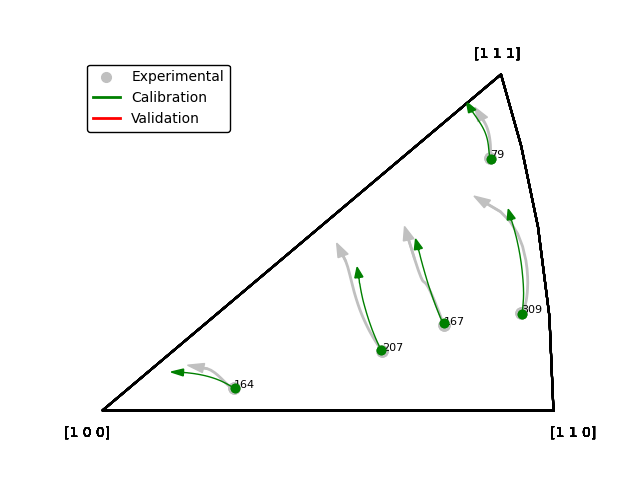
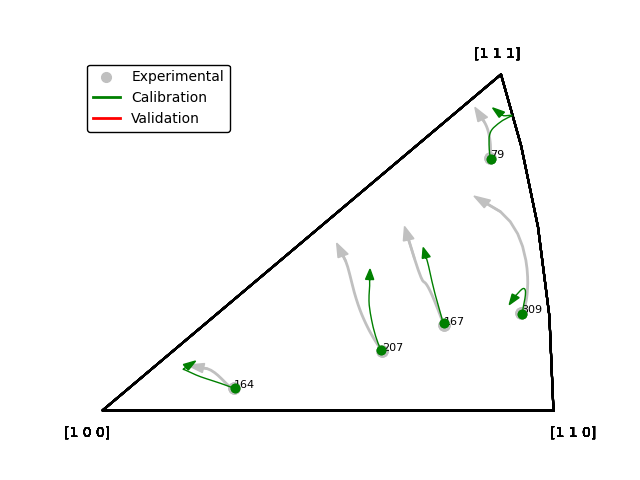
reworked analysis scripts

diff --git a/4. TORCH/comp_sm.py b/4. TORCH/comp_sm.py
@@ -22,10 +22,29 @@ MMS_PATH = "/mnt/c/Users/janzen/OneDrive - UNSW/PhD/results/mms"
 
 # Variable Paths
 SM_PATHS = [f"{MMS_PATH}/{sm_path}" for sm_path in [
-    "2024-11-06 (617_s3_40um_lh2)",
+    "2024-11-10 (617_s3_40um_lh2_s8)",
+    "2024-11-11 (617_s3_40um_lh2_s16)",
+    "2024-11-13 (617_s3_40um_lh2_s24)",
+    "2024-11-10 (617_s3_40um_lh2_s32)",
+    "2024-11-17 (617_s3_40um_lh2_s40)",
 ]]
 OPT_PATHS = [f"{OPT_PATH}/{opt_path}" for opt_path in [
-    "2024-11-05 (617_s3_40um_lh2_opt)",
+    "2024-11-18 (617_s3_40um_lh2_opts)/241117131336_0_01",
+    "2024-11-18 (617_s3_40um_lh2_opts)/241117131336_1_01",
+    "2024-11-18 (617_s3_40um_lh2_opts)/241117131336_2_01",
+    "2024-11-18 (617_s3_40um_lh2_opts)/241117131336_3_01",
+    "2024-11-18 (617_s3_40um_lh2_opts)/241117164019_3_02",
+    "2024-11-18 (617_s3_40um_lh2_opts)/241117164844_0_02",
+    "2024-11-18 (617_s3_40um_lh2_opts)/241117172822_2_02",
+    "2024-11-18 (617_s3_40um_lh2_opts)/241117190038_1_02",
+    "2024-11-18 (617_s3_40um_lh2_opts)/241117192418_0_03",
+    "2024-11-18 (617_s3_40um_lh2_opts)/241117225529_2_03",
+    "2024-11-18 (617_s3_40um_lh2_opts)/241118010357_0_04",
+    "2024-11-18 (617_s3_40um_lh2_opts)/241118021205_2_04",
+    "2024-11-18 (617_s3_40um_lh2_opts)/241118031436_1_03",
+    "2024-11-18 (617_s3_40um_lh2_opts)/241118055907_3_03",
+    "2024-11-18 (617_s3_40um_lh2_opts)/241118071817_1_04",
+    "2024-11-18 (617_s3_40um_lh2_opts)/241118100124_3_04",
 ]]
 
 # Model Evaluation Parameters
@@ -36,14 +55,16 @@ CAL_GRAIN_IDS = [207, 79, 164, 167, 309]
 
 # Plotting Parameters
 X_LABEL       = "Training Size"
+# LABEL_LIST    = [int(sm_path.split("/")[-1].split("s")[-1].replace(")","")) for sm_path in SM_PATHS]
 LABEL_LIST    = [8, 16, 24, 32, 40, 48]
 
 # Main function
 def main():
 
     # Initialise errors
-    sm_ori_error_list = []
-    sm_stress_error_list = []
+    ori_error_grid = []
+    stress_error_grid = []
+    total_error_grid = []
 
     # Iterate through surrogate models
     for sm_path in SM_PATHS:
@@ -59,15 +80,15 @@ def main():
             exp_path   = EXP_PATH,
             max_strain = MAX_STRAIN,
         )
-        res_dict = model.get_response(param_values)
 
         # Iterate through optimised results
         for opt_path in OPT_PATHS:
 
-            # Initialise
+            # Get data
             opt_dict = csv_to_dict(f"{opt_path}/summary.csv")
             param_dict = read_params(f"{opt_path}/params.txt")
             param_values = [param_dict[param_name] for param_name in PARAM_NAMES]
+            res_dict = model.get_response(param_values)
 
             # Calculate stress error
             stress_error = get_stress(
@@ -75,7 +96,7 @@ def main():
                 stress_list_2 = res_dict["stress"],
                 strain_list_1 = opt_dict["average_strain"],
                 strain_list_2 = res_dict["strain"],
-                eval_strains  = EVAL_STRAINS
+                eval_strains  = EVAL_STRAINS,
             )
 
             # Calculate orientation error
@@ -87,37 +108,89 @@ def main():
                 strain_list_2 = opt_dict["average_strain"],
                 eval_strains  = EVAL_STRAINS
             )
-            average_geodesic = np.average(flatten(geodesic_grid))
+            average_geodesics = [np.sqrt(np.average([g**2 for g in gg])) for gg in geodesic_grid]
+            average_geodesic = np.average(average_geodesics)
 
             # Add errors
-            ori_error_list.append(average_geodesic)
             stress_error_list.append(stress_error)
+            ori_error_list.append(average_geodesic)
 
         # Update errors
-        sm_ori_error_list.append(np.average(ori_error_list))
-        sm_stress_error_list.append(np.average(stress_error_list))
+        stress_error_grid.append(stress_error_list)
+        ori_error_grid.append(ori_error_list)
+        total_error_grid.append([se+oe/np.pi for se, oe in zip(stress_error_list, ori_error_list)])
+
+    # Adjust errors
+    for _ in range(len(LABEL_LIST)-len(SM_PATHS)):
+        stress_error_grid.append([])
+        ori_error_grid.append([])
+        total_error_grid.append([])
 
     # Plot stress errors
-    plt.figure(figsize=(5, 5))
-    plt.grid(True)
-    plt.plot(LABEL_LIST, sm_stress_error_list, marker="o")
-    plt.xlabel(X_LABEL)
-    plt.ylabel("Stress Relative Error (%)")
-    # plt.xlim(0, 50)
-    # plt.ylim(0, 6)
+    plot_boxplots(LABEL_LIST, stress_error_grid, (0.6, 0.8, 1.0))
+    plt.xlabel(X_LABEL, fontsize=24, labelpad=16)
+    plt.ylabel(r"$E_{\sigma}$", fontsize=24, labelpad=16)
+    plt.xlim(4, 52)
+    plt.ylim(0, 0.18)
     save_plot("results/plot_comp_se.png")
 
     # Plot geodesic errors
-    plt.figure(figsize=(5, 5))
-    plt.grid(True)
-    plt.plot(LABEL_LIST, sm_ori_error_list, marker="o")
-    plt.xlabel(X_LABEL)
-    plt.ylabel("Geodesic Error (rads)")
-    # plt.xlim(0, 50)
-    # plt.ylim(0, 0.0010)
-    # plt.gca().ticklabel_format(axis="y", style="sci", scilimits=(-4,-4))
-    # plt.gca().yaxis.major.formatter._useMathText = True
+    plot_boxplots(LABEL_LIST, ori_error_grid, (1.0, 0.6, 0.0))
+    plt.xlabel(X_LABEL, fontsize=24, labelpad=16)
+    plt.ylabel(r"$\Sigma E_{\Phi}$", fontsize=24, labelpad=16)
+    plt.xlim(4, 52)
+    plt.ylim(0, 0.018)
+    plt.gca().ticklabel_format(axis="y", style="sci", scilimits=(-3,-3))
+    plt.gca().yaxis.major.formatter._useMathText = True
+    plt.gca().yaxis.get_offset_text().set_fontsize(18)
     save_plot("results/plot_comp_ge.png")
+
+    # Plot total errors
+    plot_boxplots(LABEL_LIST, total_error_grid, (0.8, 0.6, 0.8))
+    plt.xlabel(X_LABEL, fontsize=24, labelpad=16)
+    plt.ylabel(r"$E_{\Sigma}$", fontsize=24, labelpad=16)
+    plt.xlim(4, 52)
+    plt.ylim(0, 0.18)
+    save_plot("results/plot_comp_te.png")
+
+def plot_boxplots(x_list:list, y_list_list:list, colour:str) -> None:
+    """
+    Plots several boxplots together
+
+    Parameters:
+    * `x_list`:      List of x labels
+    * `y_list_list`: List of data lists
+    * `colour`:      Boxplot colour
+    """
+
+    # Format plot
+    plt.figure(figsize=(8, 8))
+    plt.gca().set_position([0.17, 0.12, 0.75, 0.75])
+    plt.gca().grid(which="major", axis="both", color="SlateGray", linewidth=2, linestyle=":")
+    plt.xticks(fontsize=18)
+    plt.yticks(fontsize=18)
+    plt.gca().xaxis.set_tick_params(width=2)
+    plt.gca().yaxis.set_tick_params(width=2)
+    for spine in plt.gca().spines.values():
+        spine.set_linewidth(2)
+
+    # Plot boxplots
+    boxplots = plt.boxplot(y_list_list, positions=x_list, showfliers=False, patch_artist=True,
+                           vert=True, widths=4, whiskerprops=dict(linewidth=2), capprops=dict(linewidth=2))
+    
+    # Apply additional formatting to the boxplots
+    for i in range(len(y_list_list)):
+        patch = boxplots["boxes"][i]
+        patch.set_facecolor(colour)
+        patch.set_edgecolor("black")
+        patch.set_linewidth(2)
+        median = boxplots["medians"][i]
+        median.set(color="black", linewidth=2)
+
+    # # Add scattered data
+    # for x, y_list in zip(x_list, y_list_list):
+    #     x_list = np.random.normal(x, 0.04, size=len(y_list))
+    #     plt.scatter(x_list, y_list, s=4**2, color=colour, edgecolors="black", zorder=3)
 
 def read_params(params_path:str) -> dict:
     """

diff --git a/4. TORCH/err_opt.py b/4. TORCH/err_opt.py
@@ -9,7 +9,7 @@
 import numpy as np
 import matplotlib.pyplot as plt
 import sys; sys.path += [".."]
-from __common__.general import flatten
+from __common__.general import flatten, round_sf
 from __common__.io import csv_to_dict
 from __common__.plotter import save_plot
 from __common__.analyse import get_geodesics, get_stress
@@ -18,14 +18,10 @@ from __common__.analyse import get_geodesics, get_stress
 EXP_PATH = "data/617_s3_exp.csv"
 SIMS_PATH = "/mnt/c/Users/janzen/OneDrive - UNSW/PhD/results/moose_sim"
 SIM_PATHS = [f"{SIMS_PATH}/{sim_dir}/summary.csv" for sim_dir in [
-    "2024-11-05 (617_s3_40um_lh2_opt)", # 0
-    "2024-11-06 (617_s3_40um_lh2_opt)", # 0
-    "2024-11-07 (617_s3_40um_lh2_opt)", # 1
-    "2024-11-08 (617_s3_40um_lh2_opt)", # 2
-    "2024-11-08 (617_s3_40um_lh2_opt_b)", # 2
-    "2024-11-09 (617_s3_40um_lh2_opt)",
+    "2024-11-05 (617_s3_40um_lh2_opt)",
+    "2024-11-28 (617_s3_40um_lh2_i1)",
+    "2024-11-30 (617_s3_40um_lh2_i2)",
 ]]
-EVAL_STRAINS = [0, 0.05, 0.10, 0.15, 0.20, 0.25]
 CAL_GRAIN_IDS = [207, 79, 164, 167, 309]
 
 # Main function
@@ -33,6 +29,7 @@ def main():
 
     # Initialise
     exp_dict = csv_to_dict(EXP_PATH)
+    eval_strains = np.linspace(0, exp_dict["strain_intervals"][-1], 32)
     ori_error_list = []
     stress_error_list   = []
 
@@ -46,7 +43,7 @@ def main():
             stress_list_2 = res_dict["average_stress"],
             strain_list_1 = exp_dict["strain"],
             strain_list_2 = res_dict["average_strain"],
-            eval_strains  = EVAL_STRAINS
+            eval_strains  = eval_strains
         )
 
         # Calculate orientation error
@@ -56,14 +53,14 @@ def main():
             data_dict_2   = exp_dict,
             strain_list_1 = res_dict["average_strain"],
             strain_list_2 = exp_dict["strain_intervals"],
-            eval_strains  = EVAL_STRAINS
+            eval_strains  = eval_strains
         )
         average_geodesic = np.average(flatten(geodesic_grid))
 
         # Add errors
         ori_error_list.append(average_geodesic)
         stress_error_list.append(stress_error)
-        print(average_geodesic, stress_error)
+        print(f"{round_sf(average_geodesic, 5)}\t{round_sf(stress_error, 5)}\t{round_sf(average_geodesic+stress_error*np.pi, 5)}")
 
     # # Plot geodesic errors
     # plt.figure(figsize=(5, 5))

diff --git a/4. TORCH/err_sm.py b/4. TORCH/err_sm.py
@@ -10,7 +10,7 @@ import numpy as np
 import matplotlib.pyplot as plt
 import sys; sys.path += ["..", "/home/janzen/code/mms"]
 from __common__.io import csv_to_dict
-from __common__.general import flatten
+from __common__.general import flatten, round_sf
 from __common__.plotter import save_plot
 from __common__.analyse import get_geodesics, get_stress
 from __common__.surrogate import Model
@@ -19,16 +19,14 @@ from __common__.surrogate import Model
 EXP_PATH = "data/617_s3_exp.csv"
 SMS_PATH = "/mnt/c/Users/janzen/OneDrive - UNSW/PhD/results/mms"
 SM_DICT  = [
-    {"dir": "2024-11-06 (617_s3_40um_lh2)", "params": [310.52, 19.295, 84.487, 8.2568]},
-    {"dir": "2024-11-08 (617_s3_40um_lh2b)", "params": [34.025, 4.6936, 132.24, 1.9797]},
-    # {"dir": "2024-11-06 (617_s3_40um_lh2)", "params": [297.43, 209.27, 87.053, 15.861]},
-    # {"dir": "2024-11-07 (617_s3_40um_lh2)", "params": [398.94, 7.6195, 114.22, 3.9469]},
-    # {"dir": "2024-11-08 (617_s3_40um_lh2)", "params": [397.54, 5.3307, 67.688, 14.695]},
-    # {"dir": "2024-11-08 (617_s3_40um_lh2)", "params": [398.21, 6.856, 69.407, 15.658]},
+    {"dir": "2024-11-10 (617_s3_40um_lh2_s32)",    "params": [310.52, 19.295, 84.487, 8.2568]},
+    {"dir": "2024-11-19 (617_s3_40um_lh2_s32_i1)", "params": [192.34, 223.94, 114.91, 2.6902]},
+    {"dir": "2024-11-19 (617_s3_40um_lh2_s32_i2)", "params": [398.62, 92.177, 91.524, 10.625]},
+    {"dir": "2024-11-20 (617_s3_40um_lh2_s32_i3)", "params": [226.29, 296.72, 114.27, 2.4587]},
 ]
 
 # Constants
-EVAL_STRAINS  = np.linspace(0, 0.1, 50)
+EVAL_STRAINS  = np.linspace(0, 0.1, 32)
 MAX_STRAIN    = 0.1
 CAL_GRAIN_IDS = [207, 79, 164, 167, 309]
 
@@ -76,7 +74,7 @@ def main():
         # Add errors
         ori_error_list.append(average_geodesic)
         stress_error_list.append(stress_error)
-        print(average_geodesic, stress_error)
+        print(f"{round_sf(average_geodesic, 5)}\t{round_sf(stress_error, 5)}\t{round_sf(average_geodesic+stress_error*np.pi, 5)}")
 
     # # Plot geodesic errors
     # plt.figure(figsize=(5, 5))

diff --git a/4. TORCH/plot_opt.py b/4. TORCH/plot_opt.py
@@ -1,5 +1,5 @@
 """
- Title:         Plot Optimmised
+ Title:         Plot Optimised
  Description:   Plots the response of the optimised simulation
  Author:        Janzen Choi
 
@@ -14,7 +14,10 @@ from __common__.plotter import define_legend, save_plot, Plotter
 
 # Constants
 EXP_PATH = "data/617_s3_exp.csv"
-SIM_PATH = "/mnt/c/Users/janzen/OneDrive - UNSW/PhD/results/moose_sim/2024-11-05 (617_s3_40um_lh2_opt)/summary.csv"
+# SIM_FILE = "2024-11-05 (617_s3_40um_lh2_opt)"
+# SIM_FILE = "2024-11-30 (617_s3_40um_lh2_i2)"
+SIM_FILE = "2024-12-01 (617_s3_40um_lh2_i3)"
+SIM_PATH = f"/mnt/c/Users/janzen/OneDrive - UNSW/PhD/results/moose_sim/{SIM_FILE}/summary.csv"
 CAL_GRAIN_IDS = [207, 79, 164, 167, 309]
 VAL_GRAIN_IDS = []
 
@@ -56,7 +59,7 @@ def main():
 
     # Plot stress-strain curve
     res_dict["strain"] = res_dict["average_grain_strain"]
-    res_dict["stress"] = res_dict["average_stress"]
+    res_dict["stress"] = res_dict["average_grain_stress"]
     plotter = Plotter("strain", "stress", "mm/mm", "MPa")
     plotter.prep_plot()
     plotter.scat_plot(exp_dict, "silver", "Experimental")

diff --git a/4. TORCH/plot_sm.py b/4. TORCH/plot_sm.py
@@ -15,13 +15,13 @@ from __common__.surrogate import Model
 
 # Paths
 EXP_PATH = "data/617_s3_exp.csv"
-DIRECTORY = "/mnt/c/Users/janzen/OneDrive - UNSW/PhD/results/mms/2024-11-08 (617_s3_40um_lh2_c)"
+DIRECTORY = "/mnt/c/Users/janzen/OneDrive - UNSW/PhD/results/mms/2024-11-28 (617_s3_40um_lh2_s32_i1)"
 SUR_PATH = f"{DIRECTORY}/sm.pt"
 MAP_PATH = f"{DIRECTORY}/map.csv"
 
 # Constants
 MAX_STRAIN = 0.1
-PARAM_LIST = [197.89, 372.47, 97.494, 4.6058]
+PARAM_LIST = [390.45, 33.537, 79.105, 3.7274]
 CAL_GRAIN_IDS = [207, 79, 164, 167, 309]
 VAL_GRAIN_IDS = []
 
